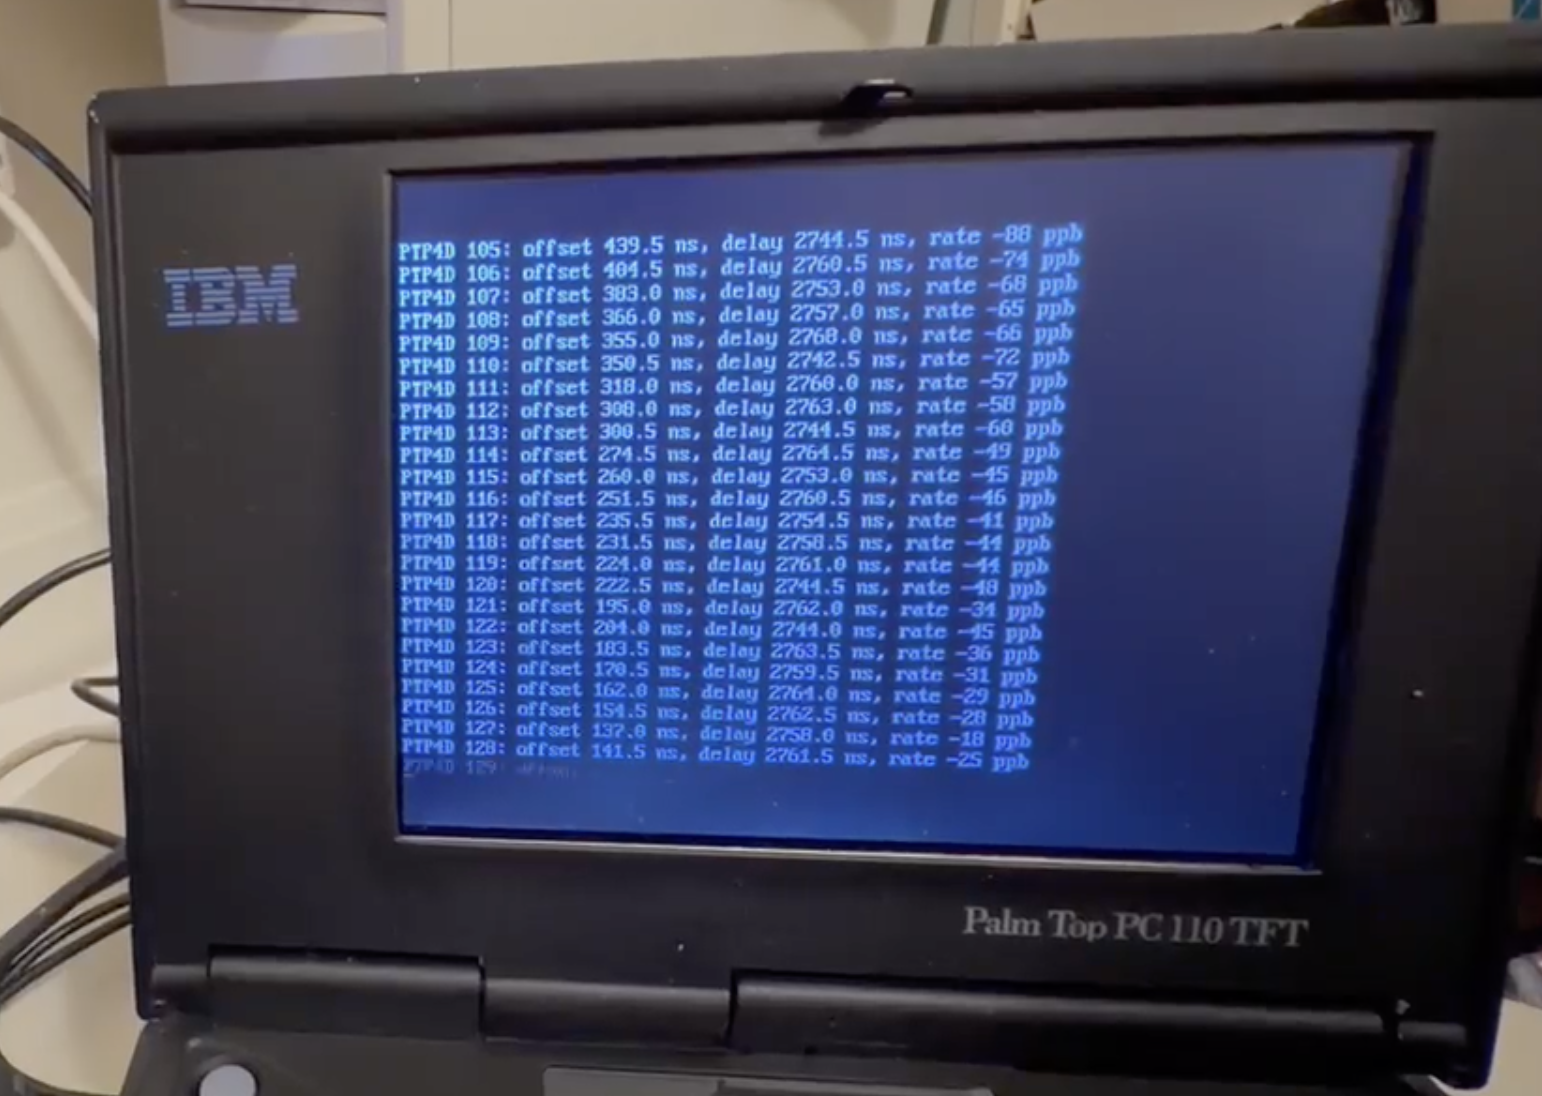
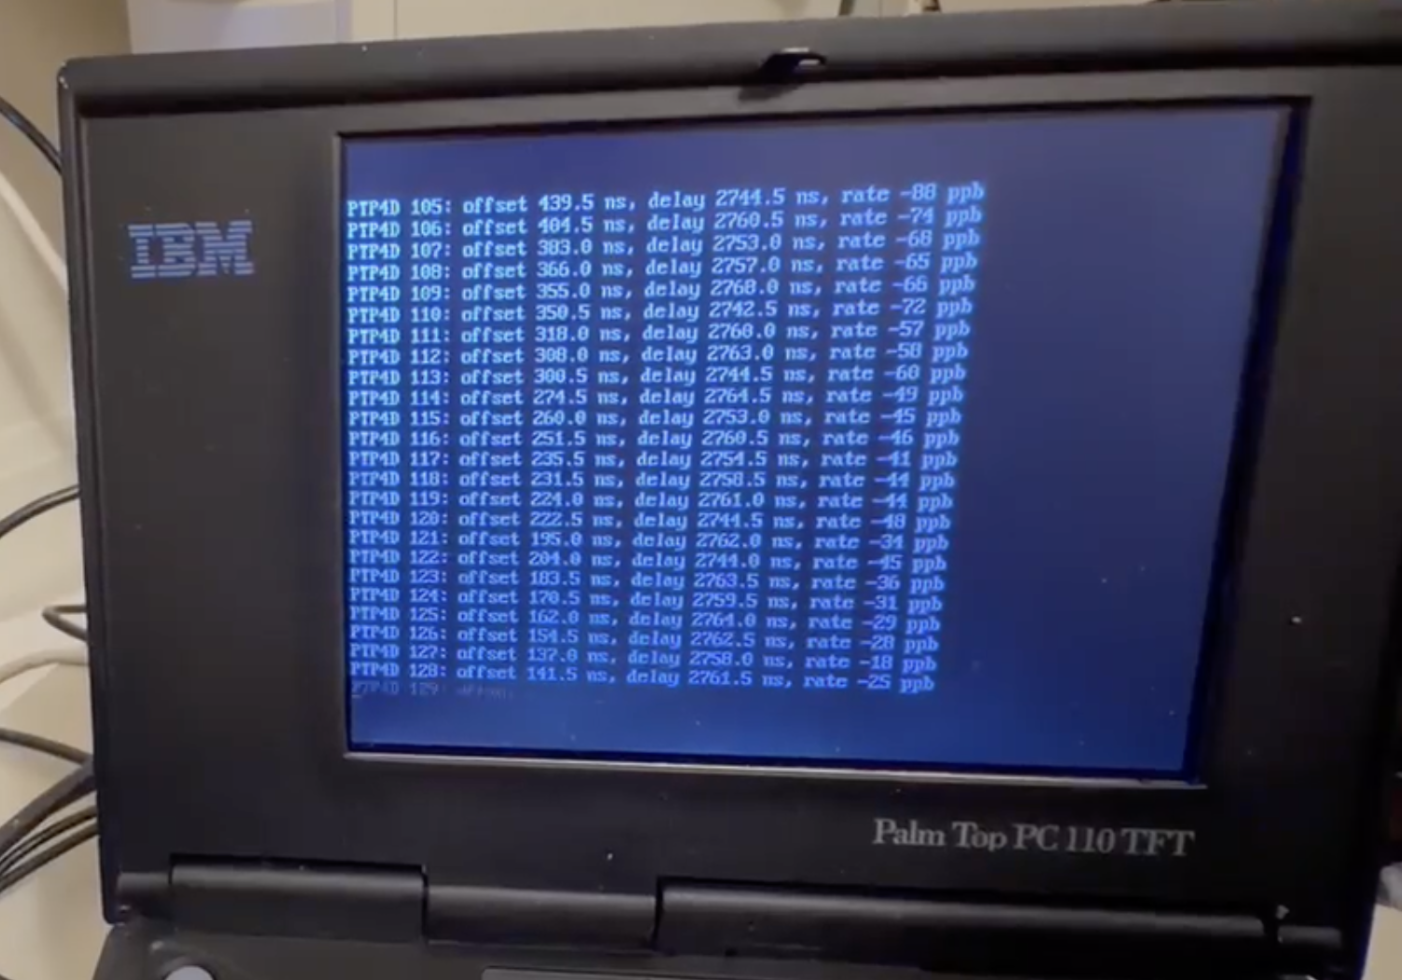
Add photos of the PC110 and TimeStick connection

diff --git a/README.md b/README.md
@@ -52,6 +52,10 @@ Tested configuration:
 
 A readable microSD card must be installed in PicoPCMCIA for the tested firmware to finish starting. The initial powered-hub arrangement did not enumerate; direct USB is the verified arrangement. Generic ASIX Ethernet-only firmware is not supported by this utility. Firmware, DOS, and the compiler are obtained separately.
 
+![TimeStick v3 connected directly to the PicoPCMCIA USB-C breakout](docs/photos/timestick-picopcmcia.png)
+
+*TimeStick v3 on the left, plugged directly into the PicoPCMCIA USB-C breakout on the right. The Ethernet cable connects the TimeStick to its PTP peer.*
+
 ## Run on DOS
 
 Download [`PTP4D.EXE` from the latest release](https://github.com/ahmadexp/PTP4D/releases/latest/download/PTP4D.EXE) and copy it to `C:\`. Verify it against the release's [`SHA256SUMS`](https://github.com/ahmadexp/PTP4D/releases/latest/download/SHA256SUMS). The same tested executable is also kept in [`bin/`](bin/).
